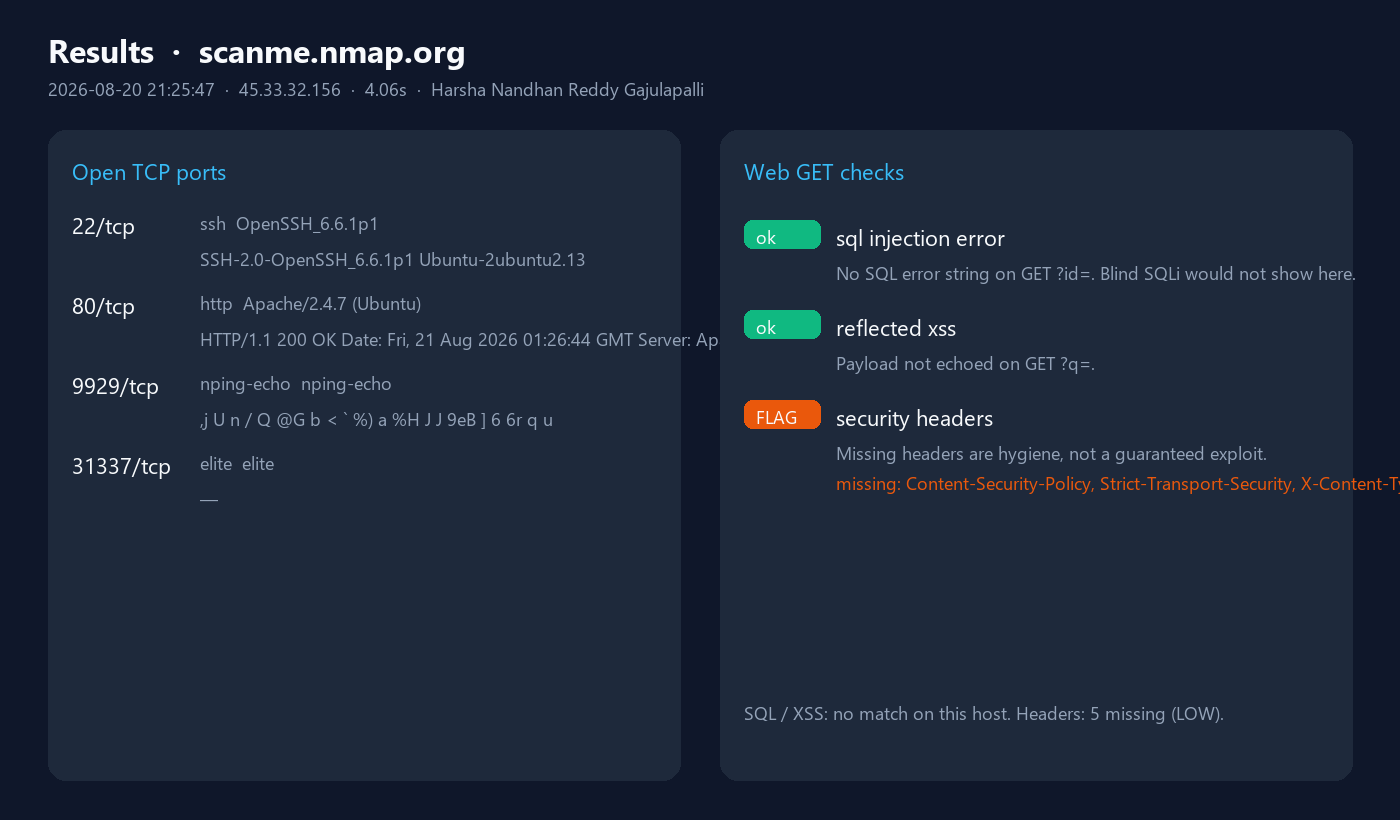
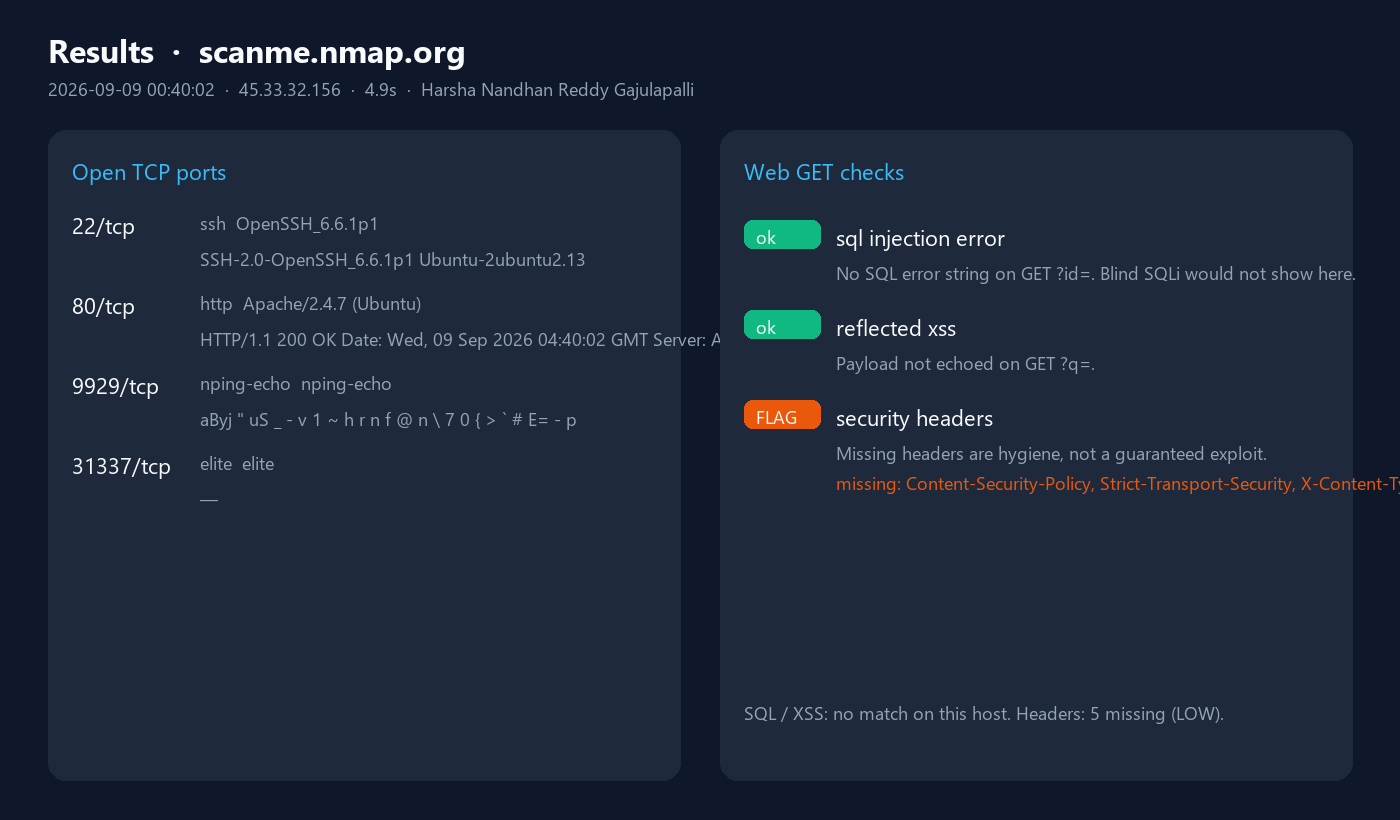
Refresh Evidence section from live 2026-09-09 scanme.nmap.org run.
Record real open_ports=4, 5 missing headers, 4.9s duration; sanitize binary banner print for Windows consoles.

diff --git a/scanner.py b/scanner.py
@@ -94,7 +94,10 @@ def main() -> None:
         if not opened:
             print("No open ports in this set.")
         for item in opened:
-            print(f"  {item['port']:>5}/tcp  {item['service']:12}  {(item.get('banner') or '')[:50]}")
+            raw = (item.get("banner") or "")[:50]
+            # Windows consoles (cp1252) choke on binary banners; keep ASCII-safe preview.
+            preview = "".join(ch if 32 <= ord(ch) < 127 else "." for ch in raw)
+            print(f"  {item['port']:>5}/tcp  {item['service']:12}  {preview}")
 
         svc = ServiceDetector(host)
         for item in opened:

diff --git a/README.md b/README.md
@@ -1,24 +1,24 @@
-# Host Security Scanner
+# Host Security Scanner
 
 Lab scanner for **hosts you are allowed to test**.
 
 It does four things:
 
-1. TCP connect scan on a port list  
-2. Banner / version grab (SSH, HTTP)  
-3. Cheap web GETs: SQL error strings, reflected XSS, security headers  
-4. TLS peek if 443 is open  
+1. TCP connect scan on a port list
+2. Banner / version grab (SSH, HTTP)
+3. Cheap web GETs: SQL error strings, reflected XSS, security headers
+4. TLS peek if 443 is open
 
-It does **not** look up CVEs, run Nmap NSE, or exploit anything.
+It does **not** look up CVEs, run Nmap NSE, or exploit anything. There is **no CVE database** and no AI scoring layer.
 
-Author: **Harsha Nandhan Reddy Gajulapalli**  
+Author: **Harsha Nandhan Reddy Gajulapalli**
 Email: **harshanandhanreddy820@gmail.com**
 
 ![How this scanner works](images/architecture.png)
 
 ## Run
 
-Authorized target used for the results below: [scanme.nmap.org](http://scanme.nmap.org) (Nmap’s public test host).
+Authorized demo target: [scanme.nmap.org](http://scanme.nmap.org) (Nmap's public test host). Do not point this at random internet hosts.
 
 ```bash
 pip install -r requirements.txt
@@ -26,15 +26,25 @@ python scanner.py -t scanme.nmap.org --quick --json results/scanme.json --report
 python render_images.py
 ```
 
-Do not point this at random internet hosts.
+## Evidence (this run)
 
-## Results
+Live re-run on **2026-09-09** (America/New_York) against `scanme.nmap.org` (`45.33.32.156`), **4.9 seconds**, `--quick` port list.
 
-From a local run on 2026-08-20 against `scanme.nmap.org` (`45.33.32.156`), **4.06 seconds**, `--quick` port list.
+Command used:
+
+```bash
+python scanner.py -t scanme.nmap.org --quick --json results/scanme.json --report results/scanme.pdf
+```
+
+Console summary from that run:
+
+```
+Done in 4.9s  open_ports=4  web_checks=3
+```
 
 ![Scan results](images/results-scanme.png)
 
-**Open ports**
+**Open ports** (4)
 
 | Port | Service | What we actually read |
 |---:|---|---|
@@ -51,12 +61,11 @@ From a local run on 2026-08-20 against `scanme.nmap.org` (`45.33.32.156`), **4.0
 | Reflected XSS on `GET ?q=` | payload not echoed |
 | Security headers | **5 missing** (CSP, HSTS, X-Content-Type-Options, X-Frame-Options, Referrer-Policy) — LOW hygiene |
 
-No TLS: 443 was closed on this host, so the SSL module was not used in this run.
+No TLS in this run: 443 was closed, so the SSL module was not used.
 
-JSON: `results/scanme.json`  
-PDF: `results/scanme.pdf`
+Artifacts from this run: `results/scanme.json`, `results/scanme.pdf`.
 
-A missing header is not a CVE. An empty SQLi check is not “the site is safe.”
+A missing header is not a CVE. An empty SQLi check is not "the site is safe." Numbers above are from the 2026-09-09 re-run, not invented CVE lookups.
 
 ## Layout
 
